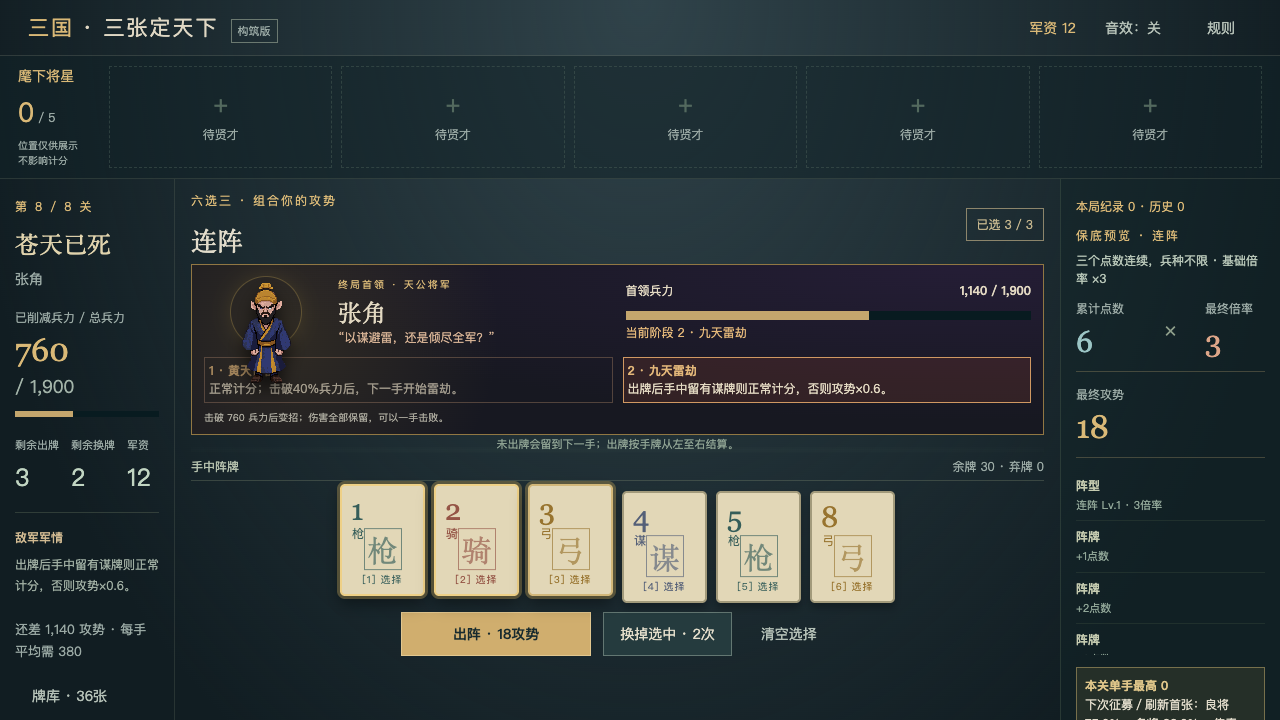
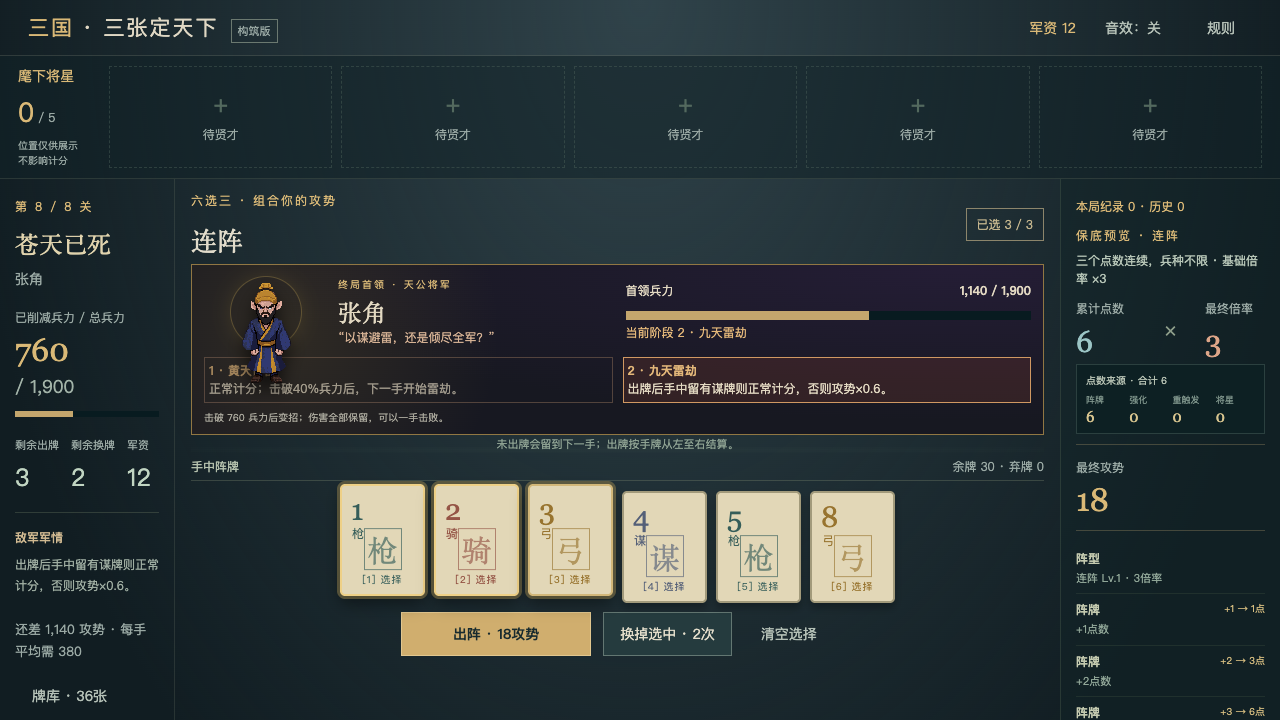
feat: explain point score breakdown

Changed region(s): [[0.8438, 0.6417, 1.0, 1.0], [0.8438, 0.5194, 0.9688, 0.6111], [0.9688, 0.9167, 1.0, 0.9472]]

diff --git a/apps/playtest/public/forge.css b/apps/playtest/public/forge.css
@@ -1,6 +1,7 @@
 :root{font-family:"PingFang SC","Microsoft YaHei",sans-serif;color:#e2dccb;background:#111d22;--gold:#dab977;--jade:#8bb8a3;--muted:#9baaa5}*{box-sizing:border-box}body{margin:0;font-size:14px;min-height:100vh;background:radial-gradient(ellipse at 50% 0,#30434a 0,transparent 75%),#111d22}button,input{font:inherit}button{cursor:pointer;min-height:44px;border:1px solid #637772;background:#253b3e;color:#e4decb;padding:10px 16px;transition:background .15s,box-shadow .15s}button:hover:not(:disabled){background:#3b5554;border-color:#d2b779}button:focus-visible,input:focus-visible,a:focus-visible{outline:3px solid var(--gold);outline-offset:3px}button:disabled{cursor:not-allowed;opacity:.4}.primary{background:#d0ae6e;color:#182b2e;border-color:#e2c78f;font-weight:700}.primary:hover:not(:disabled){background:#ebca88;color:#182b2e}.danger{background:#76463d;border-color:#b67b64}.plain{background:transparent;border-color:transparent;color:#b5c1b7}.active{background:#b89b62;color:#162c2c;border-color:#e5c789}.muted,small{color:var(--muted)}small{font-size:12px}p{line-height:1.7;margin:0}h1,h2,h3{margin:0;font-weight:500}h1,h2{font-family:"Songti SC","STSong",serif}h1{font-size:42px;line-height:1.4}h2{font-size:26px}h3{font-size:17px}.eyebrow{font-size:12px;letter-spacing:2px;color:var(--gold);margin-bottom:10px}.lead{font-size:17px;color:#bbc9be;line-height:1.9}header{height:64px;display:flex;align-items:center;justify-content:space-between;padding:0 28px;border-bottom:1px solid #69726755}.brand{background:transparent;border:0;padding:0;color:var(--gold);font-size:21px;letter-spacing:2px}.brand span{color:#e0d8c4;margin-left:8px}.brand small{font-size:11px;border:1px solid #6b7970;padding:3px 6px;letter-spacing:0;margin-left:12px}nav{display:flex;align-items:center;gap:12px}.gold{color:var(--gold)}.landing{max-width:1240px;min-height:calc(100vh - 64px);margin:auto;padding:50px 35px;display:grid;grid-template-columns:1.2fr 1fr;align-items:center;gap:60px}.landing h1{font-size:76px;letter-spacing:7px;margin:12px 0 20px}.landing em{font-style:normal;color:var(--gold)}.landing .muted{margin-top:20px;line-height:1.9}.seed-label{display:block;margin:26px 0 18px;font-size:12px;color:#adbaad}.seed-label input{display:block;max-width:370px;width:100%;background:#11272b;color:#dfd8c1;border:1px solid #61756b;padding:12px;margin-top:8px}.actions{display:flex;gap:12px;flex-wrap:wrap;align-items:center}.legacy-link{display:inline-block;color:#a5b3a7;font-size:12px;margin-top:24px}.landing-art{height:430px;position:relative;display:grid;place-items:center}.landing-art img{height:420px;image-rendering:pixelated;transform:scaleX(-1);z-index:1;filter:drop-shadow(0 15px 15px #0008)}.disc{position:absolute;width:350px;height:350px;border:1px solid #bcaa7355;border-radius:50%;background:radial-gradient(#bab07e15,transparent)}.landing-art>span{position:absolute;right:0;bottom:-25px;line-height:1.8;color:#cfbf94;letter-spacing:4px}.warband{padding:16px 24px;display:flex;gap:16px;background:#10212688;border-bottom:1px solid #6e776344}.band-title{flex:0 0 75px;display:flex;flex-direction:column;gap:7px;color:var(--gold);justify-content:center}.band-title>b{font-size:27px;font-weight:400}.band-title>small{font-size:10px;line-height:1.5}.band-slots{display:grid;grid-template-columns:repeat(5,minmax(0,1fr));gap:12px;flex:1}.empty-slot{border:1px dashed #53695e66;display:flex;flex-direction:column;align-items:center;justify-content:center;gap:6px;min-height:104px}.empty-slot b{font-size:20px;color:#53695e}.band-card{border:1px solid #8b8567;background:linear-gradient(130deg,#34483f,#263b38);padding:10px 12px;min-height:104px;box-shadow:0 4px 10px #0003}.band-name{display:flex;align-items:center;gap:8px}.band-name>span{width:27px;height:27px;display:grid;place-items:center;background:#ac8f5e;color:#10292c;font-family:"Songti SC",serif;font-size:19px}.band-name b{color:#e6ce9f;font-size:15px;font-weight:500}.band-name small{font-size:10px;margin-left:auto}.band-card>p{font-size:12px;line-height:1.5;margin:6px 0}.band-bottom{display:flex;justify-content:space-between;align-items:center;min-height:20px}.band-bottom>small{font-size:11px;color:#afd2a6}.band-bottom>div{display:flex;gap:4px;margin-left:auto}.move{padding:1px 7px;min-height:24px;min-width:25px;font-size:12px;background:#132b2a;border-color:#647a5a}.battle-layout{display:grid;grid-template-columns:200px minmax(590px,1fr) 260px;max-width:1600px;margin:auto;min-height:calc(100vh - 209px)}.campaign-panel{padding:24px 20px;border-right:1px solid #68726344}.campaign-panel h2{font-size:24px;color:#e0d3ad}.campaign-panel>p:not(.eyebrow){color:var(--muted);margin-top:8px}.goal{margin-top:24px}.goal>small{display:block}.goal>b{display:block;font-family:Georgia,serif;color:var(--gold);font-size:38px;font-weight:400;margin:6px 0}.goal>span{color:#a2b3a8;font-size:18px}progress{width:100%;height:6px;appearance:none;border:0;margin-top:12px}progress::-webkit-progress-bar{background:#081b20}progress::-webkit-progress-value{background:#c4a66d;transition:width .25s}.resources{display:flex;gap:18px;margin:24px 0}.resources>div{display:flex;flex-direction:column;gap:8px}.resources b{font-size:24px;font-weight:400;color:#c1d5c2}.resources small{font-size:11px}.boss-rule{padding:14px 0;border-top:1px solid #87957444}.boss-rule b{font-size:12px;color:#d0b991;font-weight:500}.boss-rule p{font-size:12px;color:#9faea2;margin-top:8px}.battle-center{padding:24px 26px;min-width:0}.battle-heading{display:flex;justify-content:space-between;align-items:center}.battle-heading h2{font-size:26px}.badge{border:1px solid #8c856b;padding:7px 10px;color:#c6b78e;font-size:12px}.played-area{height:156px;display:flex;justify-content:center;align-items:center;gap:20px;position:relative;background:radial-gradient(ellipse,#42584e22,transparent);margin:15px 0}.formation-slots{display:flex;gap:12px}.chosen-tile{width:92px;height:90px;display:flex;justify-content:center;align-items:center;gap:10px;border:1px solid #ac9871;background:#b9af8720;color:#d4c599;position:relative}.chosen-tile>b{font:38px Georgia,serif}.chosen-tile>span{font-family:"Songti SC",serif;font-size:23px}.chosen-tile>small{position:absolute;bottom:5px;right:6px}.chosen-tile.vacant{border:1px dashed #677b6655;background:transparent;color:#788d7b;font-size:13px}.formation-note{position:absolute;bottom:0;font-size:12px;color:#8fa393;text-align:center}.hand-label{display:flex;justify-content:space-between;font-size:12px;color:#b7c3af;padding:10px 0;border-bottom:1px solid #7f8b7155;margin-bottom:16px}.hand-row{display:flex;justify-content:center;gap:12px;min-height:149px}.army-card{position:relative;flex:0 0 auto;width:96px;height:140px;padding:10px;background:#e2d7b7;border:2px solid #a29a7b;border-radius:5px;color:#355d59;box-shadow:0 5px 8px #0004;overflow:hidden}.army-card:hover:not(:disabled){background:#f0e3c0}.army-card.selected{border-color:#eed086;box-shadow:0 0 0 3px #b59a5566,0 8px 15px #0006;transform:translateY(-7px)}.army-card .rank{position:absolute;top:7px;left:9px;font:29px Georgia,serif}.army-card .suit{position:absolute;left:10px;top:39px;font-size:12px}.army-card .ornament{font:37px "Songti SC",serif;border:1px solid currentColor;position:absolute;left:50%;top:52%;transform:translate(-50%,-35%);line-height:1.15;padding:3px;opacity:.65}.card-bottom{position:absolute;bottom:8px;left:0;right:0;font-size:10px;letter-spacing:1px}.army-card.cavalry,.chosen-tile.cavalry{color:#955546}.army-card.bow,.chosen-tile.bow{color:#98742f}.army-card.scheme,.chosen-tile.scheme{color:#556078}.played-card .army-card{height:130px;width:90px;pointer-events:none}.battle-actions{display:flex;justify-content:center;gap:12px;margin-top:20px}.battle-actions .primary{min-width:190px}.battle-actions .next-button{min-width:240px}.score-panel{padding:24px 20px;border-left:1px solid #66795f44;background:#10232677;min-width:0}.score-panel h2{font-size:22px;margin:20px 0}.equation{display:flex;gap:10px;align-items:center;justify-content:space-between;margin:18px 0}.equation>span{display:flex;flex-direction:column;gap:7px;min-width:60px}.equation b{font:30px Georgia,serif;color:#9bc5c5}.equation>span:last-child b{color:#dda588}.equation i{font-size:19px;color:#8c9c89;font-style:normal}.total{border-block:1px solid #aa966955;padding:12px 0;margin-bottom:12px}.total>b{display:block;font:38px Georgia,serif;color:var(--gold);margin-top:5px}.ledger{max-height:245px;overflow:auto}.score-step{padding:7px 0;border-bottom:1px solid #82956a22;transition:opacity .12s}.score-step b{display:block;color:#c5cbb0;font-size:12px;font-weight:500}.score-step span{display:block;color:#91a798;font-size:11px;margin-top:3px;line-height:1.5}.score-step.waiting{opacity:.12}.empty-score{font-size:80px;text-align:center;color:#83956b44;margin:50px 0}.score-panel>.muted{font-size:13px;line-height:1.9}.wide-node{max-width:1160px;margin:auto;padding:32px 35px}.wide-node>p:not(.eyebrow){color:#adbbad;margin-top:12px}.recruit-grid{display:grid;grid-template-columns:repeat(3,minmax(0,1fr));gap:24px;margin:26px 0 18px}.recruit-card{position:relative;background:linear-gradient(150deg,#374b43,#1e3535);border:1px solid #a28d63;padding:25px 26px;min-height:274px;box-shadow:0 10px 25px #0003}.seal-mark{position:absolute;right:20px;top:22px;width:50px;height:50px;display:grid;place-items:center;border:1px solid #aa9664;color:#c6ab76;font:34px "Songti SC",serif;transform:rotate(-5deg)}.recruit-card h2{font-size:29px;color:#e2c896;margin-bottom:22px}.recruit-card>p:not(.eyebrow){font-size:15px;line-height:1.8;min-height:54px;max-width:90%}.recruit-card>small{display:block;margin:14px 0 22px;line-height:1.7;min-height:34px}.recruit-card>button{width:100%}.prepare{display:grid;grid-template-columns:1.3fr 1fr;gap:60px;padding-top:45px}.prepare .lead{margin-top:18px}.prepare-stats{display:flex;gap:40px;margin:30px 0}.prepare-stats>span{display:flex;flex-direction:column;gap:10px}.prepare-stats b{font:36px Georgia,serif;color:var(--gold)}.prepare .muted{margin-top:16px;font-size:12px}.briefing{border-left:1px solid #9e997355;padding:10px 0 10px 32px}.briefing h3{color:#d0be92;margin-bottom:20px}.briefing p{font-size:14px;color:#aebeb0;margin-bottom:15px}.briefing b{color:#d5c9a3}.node-title{display:flex;align-items:center;justify-content:space-between;gap:20px}.node-title h1{font-size:36px}.sold{color:#d9bd80;text-align:center;margin-top:10px}.forge-node{max-width:1240px;margin:auto;padding:26px 30px}.edit-tabs{display:flex;gap:10px;margin:18px 0}.edit-instruction{display:flex;align-items:center;justify-content:space-between;gap:20px;padding:12px 0;color:#bcc6b1}.edit-instruction b{color:var(--gold)}.deck-grid{display:grid;grid-template-columns:repeat(12,1fr);gap:10px;max-height:355px;overflow:auto;padding:10px 4px}.army-card.mini{height:91px;width:100%;min-width:58px;padding:5px}.mini .rank{font-size:24px;top:5px;left:7px}.mini .suit{top:31px;left:9px;font-size:10px}.mini .ornament{font-size:22px;left:65%;top:44%}.mini .card-bottom{bottom:6px;font-size:9px;letter-spacing:0}.mini.selected{transform:translateY(-3px)}.suit-options{display:flex;gap:10px;margin-bottom:10px}.level-grid{display:grid;grid-template-columns:repeat(3,1fr);gap:20px;margin:25px 0}.level-grid button{min-height:110px}.level-grid b{display:block;margin-top:15px;font-size:23px;font-weight:400}.report{padding-top:50px}.report .actions{margin-top:30px}.overlay{position:fixed;inset:0;background:#081a20df;backdrop-filter:blur(6px);z-index:10;display:grid;place-items:center;padding:24px}.dialog{background:#263e3d;border:1px solid #b29a6d;padding:32px;max-width:620px;max-height:90vh;overflow:auto;box-shadow:0 30px 100px #0007}.dialog h2{color:#e0c086;margin-bottom:18px}.dialog p,.dialog li{line-height:1.9;color:#c1cbb7;font-size:14px}.dialog p{margin-bottom:18px}.dialog button{margin:6px}.dialog ol{padding-left:22px}.replace-list{display:flex;gap:8px;flex-wrap:wrap;margin:20px 0}.wide-dialog{width:1100px;max-width:95vw}.inspect{grid-template-columns:repeat(9,1fr);max-height:450px}.inspect button{margin:0;cursor:default}.notice{position:fixed;z-index:20;bottom:16px;left:50%;transform:translateX(-50%);background:#73503b;color:#ffe0a6;padding:12px 20px;max-width:90vw;box-shadow:0 8px 30px #0007}.notice button{margin-left:12px}a{color:#bbcaaf}@media(max-width:1300px){.battle-layout{grid-template-columns:175px minmax(580px,1fr) 220px}.campaign-panel,.score-panel{padding:20px 15px}.battle-center{padding:20px 16px}.hand-row{gap:9px}.army-card{width:85px}.band-card{padding:8px}.band-name{gap:5px}.band-name small{display:none}.warband{padding:12px 18px}.band-slots{gap:9px}.resources{gap:12px}.recruit-card{padding:22px}.deck-grid{grid-template-columns:repeat(12,1fr)}}@media(max-height:800px) and (min-width:1000px){header{height:56px}.warband{padding-top:10px;padding-bottom:10px}.band-card,.empty-slot{min-height:98px}.band-card>p{font-size:11px;line-height:1.4}.battle-layout{min-height:calc(100vh - 185px)}.battle-center{padding-top:18px}.played-area{height:115px;margin:10px 0}.formation-slots .chosen-tile{height:70px;width:82px}.formation-note{font-size:11px}.played-card .army-card{height:108px;width:80px}.played-card .army-card .ornament{font-size:28px}.hand-row{min-height:125px}.hand-row .army-card{height:122px}.hand-label{margin-bottom:13px;padding:8px 0}.battle-actions{margin-top:14px}.campaign-panel,.score-panel{padding-top:18px}.goal{margin-top:17px}.goal>b{font-size:32px}.resources{margin:18px 0}.ledger{max-height:185px}.equation{margin:12px 0}.total>b{font-size:32px}.wide-node{padding-top:24px;padding-bottom:20px}.wide-node h1{font-size:36px}.recruit-grid{margin-top:20px}.recruit-card{min-height:250px;padding:20px}.recruit-card>small{margin-bottom:16px}.forge-node{padding-top:16px}.node-title h1{font-size:30px}.deck-grid{max-height:306px;gap:8px}.army-card.mini{height:83px}.prepare{padding-top:35px}.landing h1{font-size:62px}.landing-art img{height:370px}}@media(max-width:999px){.battle-layout{grid-template-columns:1fr}.campaign-panel{display:none}.score-panel{border-top:1px solid #75876b}.band-title{display:none}.band-slots{grid-template-columns:repeat(5,minmax(150px,1fr));overflow:auto}.warband{overflow:auto}.band-card{min-width:150px}.landing{grid-template-columns:1fr;padding:35px}.landing-art{display:none}.landing h1{font-size:58px}.recruit-grid{gap:12px}.recruit-card{padding:18px}.seal-mark{display:none}.prepare{grid-template-columns:1fr;gap:20px}.deck-grid{grid-template-columns:repeat(8,1fr)}.node-title{align-items:flex-start;flex-direction:column}.wide-node{padding:25px}.brand{font-size:17px}.brand small{display:none}.hand-row{gap:8px}.army-card{width:80px}.formation-note{font-size:10px}.score-panel .ledger{max-height:200px}}@media(prefers-reduced-motion:reduce){*{transition:none!important}}
 .chosen-tile.cavalry{color:#e4ad94}.chosen-tile.bow{color:#e1c57d}.chosen-tile.scheme{color:#b2c1e1}
 .formation-definition{color:#b7c6b7;font-size:12px;line-height:1.5;margin-top:-5px}.formation-guide{border:1px solid #718071;margin:18px 0;background:#172d2d}.formation-guide-head,.formation-guide-row{display:grid;grid-template-columns:120px 1fr 160px;align-items:center}.formation-guide-head{padding:9px 14px;background:#102425;color:#d5bb81;font-size:12px}.formation-guide-row{padding:10px 14px;border-top:1px solid #71807144}.formation-guide-row strong{color:#e5cd99;font-family:"Songti SC",serif;font-size:17px}.formation-guide-row span{color:#c6cfbf;line-height:1.5}.formation-guide-row small{display:block;color:#849d91}.formation-guide-row em{font-style:normal;color:#9fc6b4;text-align:right}.rule-sections{display:grid;grid-template-columns:1fr 1fr;gap:12px;margin:16px 0}.rule-sections section{border:1px solid #71807155;padding:14px;background:#1b3332}.rule-sections h3{color:#d5bb81;margin-bottom:5px}.rule-sections p{margin:0;font-size:13px}@media(max-width:700px){.formation-guide-head{display:none}.formation-guide-row{grid-template-columns:90px 1fr}.formation-guide-row em{grid-column:2;text-align:left;margin-top:4px}.rule-sections{grid-template-columns:1fr}}
+.point-breakdown{border:1px solid #66807755;background:#0d2023;padding:8px 9px;margin:-7px 0 10px}.point-breakdown>small{display:block;color:#b8c3b4;font-size:10px;margin-bottom:6px}.point-breakdown>div{display:grid;grid-template-columns:repeat(4,1fr);gap:4px}.point-breakdown span{display:flex;flex-direction:column;color:#81978d;font-size:9px}.point-breakdown b{color:#d8c58f;font:15px Georgia,serif;margin-top:2px}.step-head{display:flex;justify-content:space-between;gap:6px}.step-head em{color:#d6bd80;font-size:10px;font-style:normal;white-space:nowrap}
 
 .next-threat{margin:12px 32px 0;padding:12px 18px;border:1px solid #9a7956;background:#322d25;display:flex;gap:16px;flex-wrap:wrap;color:#e4c897}.next-threat span{color:#c3c5b6;font-size:13px}.remaining-target{font-size:13px;color:#e4c897;margin:12px 0;line-height:1.7}
 

diff --git a/apps/playtest/src/main.ts b/apps/playtest/src/main.ts
@@ -33,7 +33,8 @@ const FORMATION_GUIDE=[
 function formationGuide(){return `<section class="formation-guide"><div class="formation-guide-head"><b>阵型</b><b>组成条件与例子</b><b>阵型倍率</b></div>${FORMATION_GUIDE.map((f,i)=>`<div class="formation-guide-row"><strong>${HAND_NAMES[i]}</strong><span>${f.rule}<small>${f.example}</small></span><em>点数 × ${R.baseMult[i]}</em></div>`).join('')}</section>`;}
 function band(){if(!state)return'';return `<section class="warband"><div class="band-title"><span>麾下将星</span><b>${state.companions.length}<small> / 5</small></b><small>位置仅供展示<br>不影响计分</small></div><div class="band-slots">${Array.from({length:5},(_,i)=>{const held=state!.companions[i];if(!held)return`<div class="empty-slot"><b>＋</b><small>待贤才</small></div>`;const c=COMPANIONS[held.id];return `<article class="band-card ${!home&&state!.phase==='result'&&!showAll&&state!.result?.steps[Math.max(0,animation-1)]?.source===c.name?'triggering':''}"><div class="band-name"><span>${c.mark}</span><b>${c.name}</b><small>${c.role}</small></div><p>${c.text}</p><div class="band-bottom"><small>${held.growth?'已成长 +'+held.growth+' 倍率':''}</small>${state!.phase==='shop'?`<div>${btn('遣散',`sell:${held.id}`,false,'move')}</div>`:''}</div></article>`;}).join('')}</div></section>`;}
 function chainTier(score:Score){const labels=['未响 · 本手未追加','追击 · 追加一次','连营 · 连续追加两次','破军 · 连续追加三次'];return `<div class="chain-tier tier-${score.bursts}"><small>连锁层级</small><b>${labels[score.bursts]}</b></div>`;}
-function scorePanel(score:Score|null,actual=false){if(!score)return`<p class="eyebrow">出牌预览</p><h2>选择三张阵牌</h2><p class="muted">三张牌点数相加，再乘阵型倍率。<br>麾下将星继续放大结果。</p><div class="empty-score">？</div>`;const step=actual&&!showAll?score.steps[Math.max(0,animation-1)]:null;const chips=step?.chips??score.chips,mult=step?.mult??score.mult;return `<p class="eyebrow">${actual?'连锁结算':'保底预览'} · ${HAND_NAMES[score.category]}</p><p class="formation-definition">${FORMATION_GUIDE[score.category].rule} · 基础倍率 ×${R.baseMult[score.category]}</p><div class="equation"><span><small>累计点数</small><b>${fmt(chips)}</b></span><i>×</i><span><small>最终倍率</small><b>${fmt(mult)}</b></span></div><div class="total"><small>${score.penalty<1?'敌军修正后的攻势':'最终攻势'}</small><b>${actual&&!showAll&&animation<score.steps.length?'···':fmt(score.total)}</b></div>${!actual&&state?.companions.some(c=>c.id==='pursuit')?'<p class="burst-hint">重触发后35%概率追加，最多追加3次；预览不含随机追加。</p>':''}${actual&&showAll&&state?.companions.some(c=>c.id==='pursuit')?chainTier(score):''}<div class="ledger">${score.steps.slice(0,actual&&!showAll?animation:score.steps.length).map((s,i)=>`<div class="score-step ${actual&&!showAll&&i>=animation?'waiting':''}"><b>${s.source}</b><span>${s.text}</span></div>`).join('')}</div>${actual&&!showAll?btn('直接看结果','skip-animation',false,'plain'):''}`;}
+function pointBreakdown(score:Score,count=score.steps.length){let previous=0,cards=0,enhance=0,retrigger=0,generals=0;for(const step of score.steps.slice(0,count)){const delta=Math.max(0,step.chips-previous);previous=step.chips;if(!delta)continue;if(step.source==='阵牌'){const card=score.cards.find(c=>c.id===step.cardId),bonus=Math.min(delta,card?.bonus??0);cards+=delta-bonus;enhance+=bonus;}else if(step.source==='重触发牌')retrigger+=delta;else generals+=delta;}return{cards,enhance,retrigger,generals,total:cards+enhance+retrigger+generals};}
+function scorePanel(score:Score|null,actual=false){if(!score)return`<p class="eyebrow">出牌预览</p><h2>选择三张阵牌</h2><p class="muted">三张牌点数相加，再乘阵型倍率。<br>麾下将星继续放大结果。</p><div class="empty-score">？</div>`;const visible=actual&&!showAll?animation:score.steps.length,step=actual&&!showAll?score.steps[Math.max(0,animation-1)]:null,chips=step?.chips??score.chips,mult=step?.mult??score.mult,parts=pointBreakdown(score,visible);return `<p class="eyebrow">${actual?'连锁结算':'保底预览'} · ${HAND_NAMES[score.category]}</p><p class="formation-definition">${FORMATION_GUIDE[score.category].rule} · 基础倍率 ×${R.baseMult[score.category]}</p><div class="equation"><span><small>累计点数</small><b>${fmt(chips)}</b></span><i>×</i><span><small>最终倍率</small><b>${fmt(mult)}</b></span></div><div class="point-breakdown" data-points-sum="${parts.total}"><small>点数来源 · 合计 ${fmt(parts.total)}</small><div><span>阵牌<b>${fmt(parts.cards)}</b></span><span>强化<b>${fmt(parts.enhance)}</b></span><span>重触发<b>${fmt(parts.retrigger)}</b></span><span>将星<b>${fmt(parts.generals)}</b></span></div></div><div class="total"><small>${score.penalty<1?'敌军修正后的攻势':'最终攻势'}</small><b>${actual&&!showAll&&animation<score.steps.length?'···':fmt(score.total)}</b></div>${!actual&&state?.companions.some(c=>c.id==='pursuit')?'<p class="burst-hint">重触发后35%概率追加，最多追加3次；预览不含随机追加。</p>':''}${actual&&showAll&&state?.companions.some(c=>c.id==='pursuit')?chainTier(score):''}<div class="ledger">${score.steps.slice(0,visible).map((s,i)=>{const before=i?score.steps[i-1].chips:0,delta=s.chips-before;return`<div class="score-step"><div class="step-head"><b>${s.source}</b>${delta>0?`<em>+${fmt(delta)} → ${fmt(s.chips)}点</em>`:''}</div><span>${s.text}</span></div>`;}).join('')}</div>${actual&&!showAll?btn('直接看结果','skip-animation',false,'plain'):''}`;}
 function render(){const v=state?forgeView(state):null;const boss=v?bossEncounter(v):null;const shifted=!!(v?.phase==='result'&&v.settlement!=='pending'&&boss&&v.score<v.target&&v.score>=boss.threshold&&v.score-v.result!.total<boss.threshold);let preview:Score|null=null;if(state&&chosen.length===3&&state.phase==='battle')try{preview=previewForge(state,chosen);}catch{}
 let body='';if(home){body=`<section class="landing"><div><p class="eyebrow">构筑试验 · v0.7 · 简明计分</p><h1>三张为阵<br><em>百策成军</em></h1><p class="lead">收名将，改阵牌，叠出自己的破军之势。<br>三张牌点数相加，再乘阵型倍率。</p><label class="seed-label">征程种子 · 留空随机<input id="seed" maxlength="100" placeholder="输入种子，可重玩同一组随机选择"></label><div class="actions">${btn('启程 · 先选核心','new',false,'primary')}${btn('连锁试玩 · 直达张角','demo')}${state?btn('继续征程','continue'):''}${btn('怎么玩','help')}</div><p class="record-line">历史单手纪录 ${fmt(bestEver)}</p><p class="muted">八关征程 · 22位将星 · 战后随机整编<br>1–6 选牌，Enter 出牌。开局核心可以自由选择。</p></div><div class="landing-art"><div class="disc"></div><img src="./assets/zhao-yun.png" alt="赵云像素立绘"><span>一手牌的强弱<br>由你的构筑决定</span></div></section>`;}
 else if(v){body=band();if(['recruit','forge','shop'].includes(v.phase)){const next=forgeStage({...v,stage:Math.min(7,v.stage+1),challenge:v.stage===7?v.challenge+1:0});body+=`<div class=next-threat><b>斥候来报 · 下一关 ${next.enemy} · 目标 ${fmt(next.target)}</b><span>${next.text}</span></div>`;}if(['recruit','shop'].includes(v.phase))body+=rarityPanel(state!);if(v.phase==='starter'){body+=`<section class="wide-node"><p class="eyebrow">开局征募 · 决定第一步，后面仍可转型</p><h1>这一局，从谁开始？</h1><p>先拿到一个核心，再让奖励、改牌与商店帮你把它变强。</p><div class="recruit-grid">${v.recruits.map(id=>companion(id,`starter:${id}`)).join('')}</div></section>`;}
@@ -44,7 +45,7 @@ else if(v.phase==='forge'){body+=`<section class="wide-node random-forge"><div><
 else if(v.phase==='shop'){body+=`<section class="wide-node">${v.lastEdit?`<div class="random-edit-result"><b>整编完成</b><span>${escape(v.lastEdit)}</span></div>`:''}<div class="node-title"><div><p class="eyebrow">军中市集 · 军资 ${v.gold}</p><h1>补强，或等待</h1></div><div class="actions">${btn(`刷新货架 · ${R.refreshBase+v.refreshes}军资`,'refresh',v.gold<R.refreshBase+v.refreshes)}${btn('准备下一战 →','depart',false,'primary')}</div></div><p>上方将星可直接遣散。胜后利息：每5军资得1，上限5；遣散将星会失去其成长。</p><div class="recruit-grid">${v.offers.map(o=>`<div>${companion(o.id,`buy:${o.id}`,o.sold||v.gold<COMPANIONS[o.id].price)}${o.sold?'<p class="sold">已纳入麾下</p>':''}</div>`).join('')}</div></section>`;}
 else{body+=`<section class="wide-node report"><p class="eyebrow">${v.challenge?`八关已通关 · 极限${v.challenge}层${v.phase==='victory'?'完成':'止步'}`:v.phase==='victory'?'黄巾已破 · 八关通关':'征程结束 · 构筑尚可再试'}</p><h1>${v.phase==='victory'?'此军，足以定天下':'再给这套打法一次机会'}</h1><div class="prepare-stats"><span><small>攻破关卡</small><b>${Math.min(8,v.stats.cleared)}/8</b></span><span><small>最高单手攻势</small><b>${fmt(v.stats.best)}</b></span><span><small>永久整编</small><b>${v.stats.edits}</b></span><span><small>总出牌</small><b>${v.stats.plays}</b></span></div><p>种子：${escape(v.seed)}。新局不会继承成长和改牌。</p><div class="actions">${v.phase==='victory'?btn(v.challenge?'继续挑战下一层':'保留构筑 · 进入极限挑战','extend',false,'primary'):''}${btn('换一局，试新组合','new',false,'primary')}${btn('返回主界面','home')}</div></section>`;}}
 let overlay='';if(paused&&!home)overlay=`<h2>暂歇片刻</h2><p>进度已尝试保存。继续时保持当前牌局。</p>${btn('继续征程','resume',false,'primary')}`;
-else if(modal==='help')overlay=`<p class="eyebrow">三张为阵 · 完整规则</p><h2>三张点数相加，再乘阵型倍率</h2><p>每手从六张牌中选择三张。系统取符合条件的最高阵型；兵种没有强弱和克制。</p>${formationGuide()}<div class="rule-sections"><section><h3>攻势怎么算</h3><p>累计点数 = 三张牌的点数与强化 + 将星加点。最终攻势 = 累计点数 × 最终倍率 × 敌军修正。阵型升级只让该阵型倍率 +1。</p></section><section><h3>一场战斗</h3><p>普通战斗有4次出牌和2次换牌。没出的牌会保留，随后补回六张。累计攻势达到目标即胜；第8关张角只有3次出牌。</p></section><section><h3>重触发与追击</h3><p>张飞会让第一张对子牌再次计分，诸葛亮会让最右侧牌再次计分。持有马超时，每次重触发后有35%概率继续追加，最多3次；陆逊在每次追加成功时让当前倍率 ×1.5。</p></section><section><h3>将星如何结算</h3><p>逐牌效果跟随对应阵牌；整手先加点数和倍率，最后乘倍率。麾下中的展示位置不会改变结果。胜利后依次征募、随机整编，再进入商店。</p></section></div><p>第4关张宝和第8关张角会在损失40%兵力后变招。界面左侧会公开当前敌军规则和应对方式。</p><p>出牌后可以安全收兵，也可押本手20%分数进行一次50%胜率的乘胜追击。快捷键：1–6选牌，Enter出牌或进入下一手。</p>${btn('看明白了','close',false,'primary')}`;
+else if(modal==='help')overlay=`<p class="eyebrow">三张为阵 · 完整规则</p><h2>三张点数相加，再乘阵型倍率</h2><p>每手从六张牌中选择三张。系统取符合条件的最高阵型；兵种没有强弱和克制。</p>${formationGuide()}<div class="rule-sections"><section><h3>攻势怎么算</h3><p>累计点数 = 阵牌牌面 + 强化 + 重触发重复计分 + 将星加点。最终攻势 = 累计点数 × 最终倍率 × 敌军修正。阵型升级只让该阵型倍率 +1。</p></section><section><h3>一场战斗</h3><p>普通战斗有4次出牌和2次换牌。没出的牌会保留，随后补回六张。累计攻势达到目标即胜；第8关张角只有3次出牌。</p></section><section><h3>重触发与追击</h3><p>张飞会让第一张对子牌再次计分，诸葛亮会让最右侧牌再次计分。持有马超时，每次重触发后有35%概率继续追加，最多3次；陆逊在每次追加成功时让当前倍率 ×1.5。</p></section><section><h3>将星如何结算</h3><p>逐牌效果跟随对应阵牌；整手先加点数和倍率，最后乘倍率。麾下中的展示位置不会改变结果。胜利后依次征募、随机整编，再进入商店。</p></section></div><p>第4关张宝和第8关张角会在损失40%兵力后变招。界面左侧会公开当前敌军规则和应对方式。</p><p>出牌后可以安全收兵，也可押本手20%分数进行一次50%胜率的乘胜追击。快捷键：1–6选牌，Enter出牌或进入下一手。</p>${btn('看明白了','close',false,'primary')}`;
 else if(modal==='new')overlay=`<h2>开启新征程？</h2><p>当前进度将替换为新局，开局重新选择核心。</p>${btn('确认启程','confirm-new',false,'primary')}${btn('返回','close')}`;
 else if(modal==='replace'&&pending&&v)overlay=`<h2>五个位置已满</h2><p>纳入「${COMPANIONS[pending.id as CompanionId].name}」前，选择替换一位；替换不返还军资，旧成长将失去。</p><div class="replace-list">${v.companions.map(c=>btn(`${COMPANIONS[c.id].name}${c.growth?' · 成长+'+c.growth:''}`,`replace:${c.id}`)).join('')}</div>${btn('再考虑一下','close')}`;
 else if(modal.startsWith('sell:')){const id=modal.slice(5) as CompanionId;overlay=`<h2>遣散${COMPANIONS[id].name}？</h2><p>获得${Math.floor(COMPANIONS[id].price/2)}军资，失去这位将星和已积累成长。</p>${btn('确认遣散',`confirm-sell:${id}`,false,'primary')}${btn('取消','close')}`;}

diff --git a/tests/browser/burst.spec.ts b/tests/browser/burst.spec.ts
@@ -5,5 +5,5 @@ function fixture(seed:string){let s=newForge(seed);s.phase='prepare';s.companion
 async function load(page:Page,s:ForgeState){const saved:Record<string,string>={};saveForge({get:k=>saved[k]??null,set:(k,v)=>{saved[k]=v;}},s);await page.goto('http://127.0.0.1:4173');await page.evaluate(data=>{localStorage.clear();for(const[k,v]of Object.entries(data))localStorage.setItem(k,v);},saved);await page.reload();await click(page,'continue');}
 async function click(page:Page,a:string){await page.locator(`[data-action="${a}"]`).click();if(!a.startsWith('card:'))await page.waitForTimeout(180);}
 const read=(page:Page)=>page.evaluate(()=>JSON.parse((window as any).render_game_to_text()).view);
-test('burst reveals actual events then settles win and loss without rerolling',async({page})=>{test.setTimeout(60000);await page.setViewportSize({width:1280,height:720});for(const outcome of ['win','loss']){let s=fixture('0');for(let i=0;i<300;i++){s=fixture('ui-burst-'+i);const played=act(s,'play',s.hand.slice(0,3));if(played.result!.bursts>=2&&act(played,'gamble').settlement===outcome)break;if(i===299)throw Error('fixture not found');}await load(page,s);for(const id of s.hand.slice(0,3))await click(page,'card:'+id);await expect(page.locator('.burst-hint')).toContainText('35%');await click(page,'play');expect((await read(page)).score).toBe(0);await expect(page.locator('.total b')).toHaveText('···');await expect(page.locator('.wager-panel')).toBeVisible();await expect(page.locator('.ledger')).toContainText('连营发动');expect(await page.locator('[data-action=gamble]').evaluate(e=>e.getBoundingClientRect().bottom<=innerHeight)).toBe(true);await page.screenshot({path:`docs/evidence/burst-${outcome}-pending.png`});const pending=await read(page);await page.reload();await click(page,'continue');expect(await read(page)).toEqual(pending);await click(page,'gamble');await expect(page.locator('.wager-result')).toHaveClass(new RegExp(outcome));const settled=await read(page);expect(settled.score).toBe(settled.result.total);await page.screenshot({path:`docs/evidence/burst-${outcome}-settled.png`});await page.reload();await click(page,'continue');expect(await read(page)).toEqual(settled);await expect(page.locator('[data-action=gamble]')).toHaveCount(0);await expect(page.locator('.new-record')).toBeVisible();}});
+test('burst reveals actual events then settles win and loss without rerolling',async({page})=>{test.setTimeout(60000);await page.setViewportSize({width:1280,height:720});for(const outcome of ['win','loss']){let s=fixture('0');for(let i=0;i<300;i++){s=fixture('ui-burst-'+i);const played=act(s,'play',s.hand.slice(0,3));if(played.result!.bursts>=2&&act(played,'gamble').settlement===outcome)break;if(i===299)throw Error('fixture not found');}await load(page,s);for(const id of s.hand.slice(0,3))await click(page,'card:'+id);await expect(page.locator('.burst-hint')).toContainText('35%');await click(page,'play');expect((await read(page)).score).toBe(0);await expect(page.locator('.total b')).toHaveText('···');await expect(page.locator('.wager-panel')).toBeVisible();await expect(page.locator('.ledger')).toContainText('连营发动');const revealed=await read(page);expect(Number(await page.locator('.point-breakdown').getAttribute('data-points-sum'))).toBe(revealed.result.chips);await expect(page.locator('.step-head em').first()).toContainText('→');expect(await page.locator('[data-action=gamble]').evaluate(e=>e.getBoundingClientRect().bottom<=innerHeight)).toBe(true);await page.screenshot({path:`docs/evidence/burst-${outcome}-pending.png`});const pending=await read(page);await page.reload();await click(page,'continue');expect(await read(page)).toEqual(pending);await click(page,'gamble');await expect(page.locator('.wager-result')).toHaveClass(new RegExp(outcome));const settled=await read(page);expect(settled.score).toBe(settled.result.total);await page.screenshot({path:`docs/evidence/burst-${outcome}-settled.png`});await page.reload();await click(page,'continue');expect(await read(page)).toEqual(settled);await expect(page.locator('[data-action=gamble]')).toHaveCount(0);await expect(page.locator('.new-record')).toBeVisible();}});
 test('victory extends into challenge with unchanged build and visible goal',async({page})=>{let s=fixture('endless-ui');s.stage=7;s.phase='victory';s.score=s.target=1900;s.stats.cleared=8;s.stats.best=2200;await load(page,s);await click(page,'extend');await expect(page.locator('.rarity-panel')).toBeVisible();await click(page,'recruit:skip');await click(page,'edit-skip');await click(page,'depart');await expect(page.locator('h1')).toHaveText('极限挑战 · 第1层');await click(page,'begin:normal');const v=await read(page);expect(v.challenge).toBe(1);expect(v.target).toBe(3040);expect(v.army).toEqual(s.army);expect(v.companions).toEqual(s.companions);expect(v.stats.cleared).toBe(8);await page.screenshot({path:'docs/evidence/burst-endless.png'});});

diff --git a/tests/browser/forge.spec.ts b/tests/browser/forge.spec.ts
@@ -14,7 +14,7 @@ async function uiAction(page:Page,a:Omit<ForgeAction,'seq'>){
 }
 test('build UI, preview parity, one random edit and independent resume',async({page})=>{
  test.setTimeout(60000);const errors:string[]=[];page.on('pageerror',e=>errors.push(e.message));await page.goto('http://127.0.0.1:4173');await page.screenshot({path:'docs/evidence/forge-home.png'});await page.locator('#seed').fill('forge-0');await click(page,'new');await page.screenshot({path:'docs/evidence/forge-starters.png'});await click(page,'starter:liubei');await click(page,'begin:normal');
- let v=(await read(page)).view;const best=bestForgeHand(v);for(const id of best.ids)await click(page,'card:'+id);await expect(page.locator('.total b')).toHaveText(new Intl.NumberFormat('zh-CN',{maximumFractionDigits:2}).format(best.score));await page.screenshot({path:'docs/evidence/forge-battle-1440.png'});
+ let v=(await read(page)).view;const best=bestForgeHand(v);for(const id of best.ids)await click(page,'card:'+id);await expect(page.locator('.total b')).toHaveText(new Intl.NumberFormat('zh-CN',{maximumFractionDigits:2}).format(best.score));await expect(page.locator('.point-breakdown')).toContainText('阵牌');await expect(page.locator('.point-breakdown')).toContainText('重触发');const pointSum=Number(await page.locator('.point-breakdown').getAttribute('data-points-sum')),displayedPoints=Number((await page.locator('.equation span').first().locator('b').innerText()).replaceAll(',',''));expect(pointSum).toBe(displayedPoints);await page.screenshot({path:'docs/evidence/forge-battle-1440.png'});
  await page.setViewportSize({width:1280,height:720});expect(await page.locator('[data-action=play]').evaluate(el=>el.getBoundingClientRect().bottom<=innerHeight)).toBe(true);expect(await page.evaluate(()=>document.documentElement.scrollWidth<=innerWidth)).toBe(true);await page.screenshot({path:'docs/evidence/forge-battle-1280.png'});await click(page,'play');expect((await read(page)).view.result!.total).toBe(best.score);
  for(let n=0;n<20;n++){v=(await read(page)).view;if(v.phase==='recruit')break;await uiAction(page,counterplayStrategy(v,'liubei'));}v=(await read(page)).view;expect(v.phase).toBe('recruit');const before=v;await page.reload();await click(page,'continue');expect((await read(page)).view).toEqual(before);await page.screenshot({path:'docs/evidence/forge-recruit.png'});
  await click(page,'recruit:'+v.recruits[0]);expect(await page.locator('[data-action=random-edit]').count()).toBe(1);expect(await page.locator('.edit-tabs').count()).toBe(0);await page.screenshot({path:'docs/evidence/forge-random-edit.png'});const beforeEdit=(await read(page)).view;await click(page,'random-edit');v=(await read(page)).view;expect(v.phase).toBe('shop');expect(v.stats.edits).toBe(beforeEdit.stats.edits+1);expect(v.lastEdit).toBeTruthy();await expect(page.locator('.random-edit-result')).toContainText(v.lastEdit!);await page.screenshot({path:'docs/evidence/forge-shop.png'});const editedArmy=structuredClone(v.army),editedLevels=[...v.levels];await click(page,'depart');await click(page,'begin:normal');v=(await read(page)).view;expect(v.army).toEqual(editedArmy);expect(v.levels).toEqual(editedLevels);expect(v.lastEdit).toBeNull();expect(errors).toEqual([]);

diff --git a/openspec/changes/explain-point-breakdown/design.md b/openspec/changes/explain-point-breakdown/design.md
@@ -1,0 +1,31 @@
+## Context
+
+规则内核已经在每个 `ScoreStep` 中保存该步骤后的累计点数、倍率、来源与关联阵牌。渲染层可以由相邻步骤的差值还原每次增加，无需改动存档结构。
+
+## Goals / Non-Goals
+
+**Goals:**
+
+- 让玩家一眼看到点数从何而来以及为何发生跳变。
+- 预览和实际连锁结算使用相同的拆解方式。
+- 保持现有规则、数值、动画顺序与存档兼容。
+
+**Non-Goals:**
+
+- 不调整阵型倍率、将星能力或敌军修正。
+- 不增加新的计分概念。
+
+## Decisions
+
+### 在渲染层按步骤差值分类
+
+阵牌首次计分拆为牌面和强化；`重触发牌` 的全部增量归为重触发；其余正向点数增量归为将星。分类只用于说明，最终累计值仍读取规则内核的结果。
+
+### 同时提供总览和逐步反馈
+
+总览固定显示四项，便于横向比较；流水在发生点数变化时显示“+本次 → 累计”，解释动画中24变48的瞬间。
+
+## Risks / Trade-offs
+
+- [窄屏信息拥挤] → 使用两列紧凑网格，并在低高度布局中压缩间距。
+- [解释值与内核结果偏离] → 浏览器测试校验四项之和等于当前累计点数。

diff --git a/openspec/changes/explain-point-breakdown/specs/point-breakdown/spec.md b/openspec/changes/explain-point-breakdown/specs/point-breakdown/spec.md
@@ -1,0 +1,21 @@
+## ADDED Requirements
+
+### Requirement: 点数来源可拆解
+
+系统 SHALL 在选择三张阵牌后，将乘算前的累计点数拆为阵牌、强化、重触发和将星四个来源，并 MUST 保证四项之和等于显示的累计点数。
+
+#### Scenario: 预览普通一手
+- **WHEN** 玩家选择三张没有强化且没有点数型将星触发的阵牌
+- **THEN** 面板将三张牌面之和显示为阵牌点数，其余三项显示为零
+
+#### Scenario: 结算含重触发的一手
+- **WHEN** 一张阵牌被张飞、诸葛亮或马超再次计分
+- **THEN** 再次计入的点数显示在重触发项而不是原始阵牌项
+
+### Requirement: 流水显示点数变化
+
+系统 SHALL 在每个增加点数的结算步骤旁显示本次增加值和步骤完成后的累计点数。
+
+#### Scenario: 累计点数发生变化
+- **WHEN** 一个结算步骤使累计点数从24增加到48
+- **THEN** 该步骤显示“+24 → 48点”

diff --git a/openspec/changes/explain-point-breakdown/proposal.md b/openspec/changes/explain-point-breakdown/proposal.md
@@ -1,0 +1,23 @@
+## Why
+
+计分面板只显示不断变化的累计点数，玩家无法区分三张阵牌的基础点数与重触发、强化、将星带来的追加点数。24突然变成48时，结算虽然正确，却难以理解。
+
+## What Changes
+
+- 将累计点数固定拆解为阵牌、强化、重触发和将星四个来源。
+- 在每条结算流水旁显示本次点数变化与变化后的累计值。
+- 更新规则说明与浏览器验证，不改变任何计分规则或数值。
+
+## Capabilities
+
+### New Capabilities
+
+- `point-breakdown`: 可追溯的点数来源拆解与逐步累计反馈。
+
+### Modified Capabilities
+
+无。
+
+## Impact
+
+影响战斗计分面板、样式、规则文档、浏览器断言和截图证据。规则内核、存档和随机状态不变。

diff --git a/openspec/changes/explain-point-breakdown/tasks.md b/openspec/changes/explain-point-breakdown/tasks.md
@@ -1,0 +1,11 @@
+## 1. 计分说明
+
+- [x] 1.1 实现阵牌、强化、重触发和将星四项点数拆解
+- [x] 1.2 为结算流水增加本次增量与累计值
+- [x] 1.3 更新规则说明与样式
+
+## 2. 验证与交付
+
+- [x] 2.1 增加浏览器断言并更新截图证据
+- [x] 2.2 运行规则、类型、浏览器、打包与成品冒烟验证
+- [x] 2.3 启动成品，提交并推送
